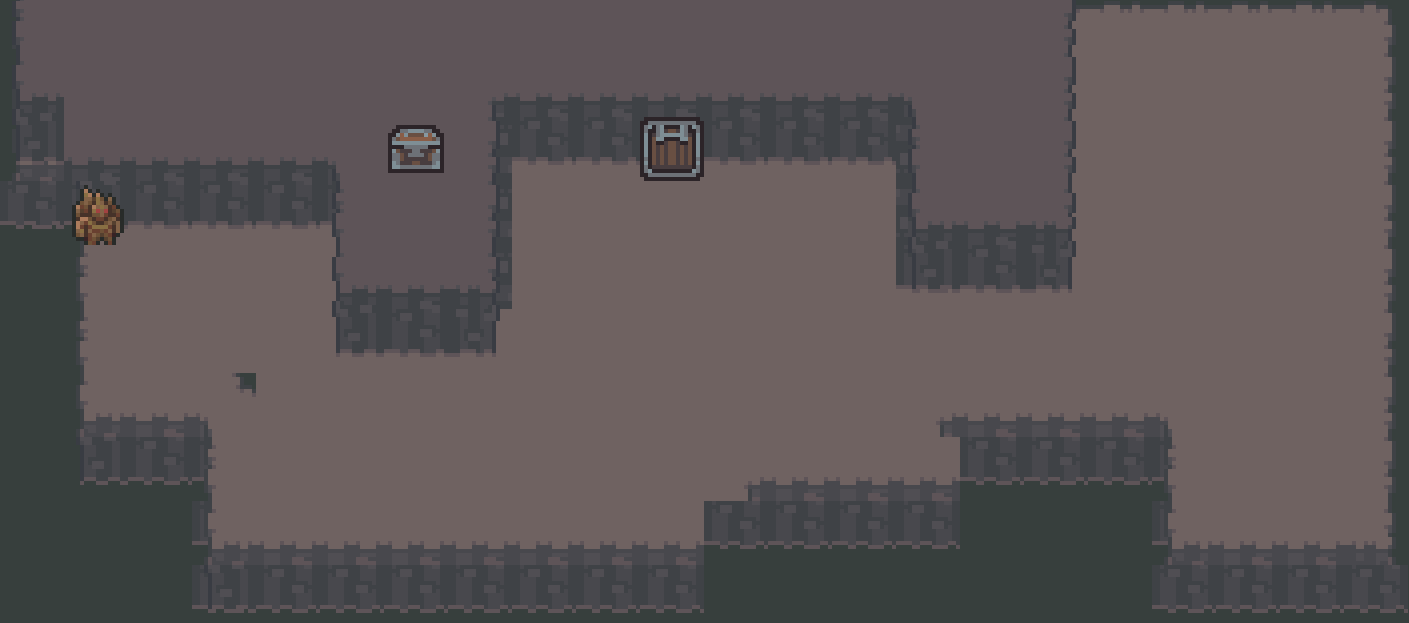
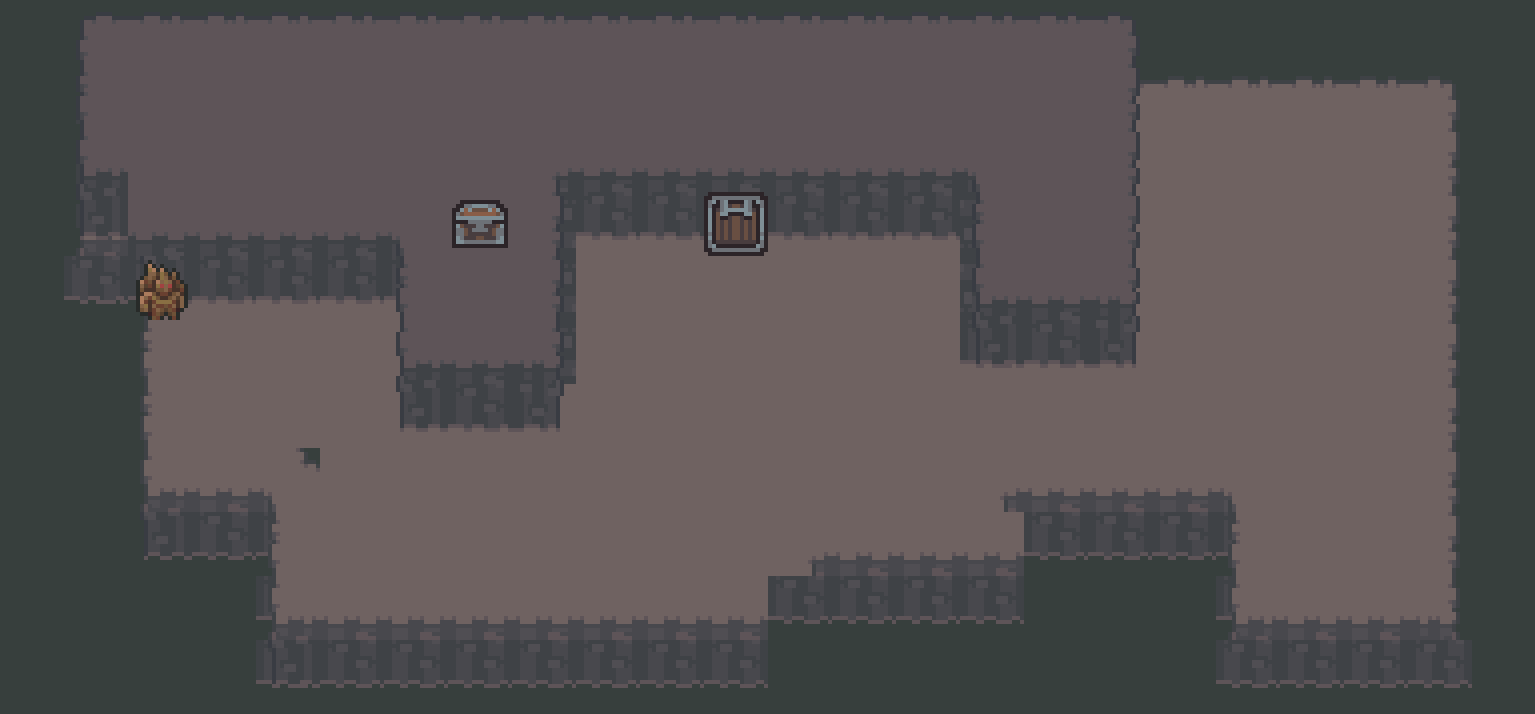
bekup

diff --git a/src/game/collisionData.js b/src/game/collisionData.js
@@ -18,8 +18,8 @@ const worldCollisions  = [
     [0, 0, 0, 0, 0, 1, 0, 0, 0, 0, 0, 0, 0, 0, 0, 0, 0, 0, 0, 0, 0, 1, 0, 0, 0, 0, 0, 0, 0, 1, 1, 1, 1, 1, 1, 1, 1, 1, 1, 1, 1, 1, 1, 1, 1, 1, 1, 1, 0, 0, 0, 0, 0, 0, 0, 0, 0, 0, 0, 0, 0, 0, 0, 0],
     [0, 0, 1, 1, 1, 0, 0, 0, 0, 0, 0, 0, 0, 0, 0, 0, 0, 0, 1, 1, 1, 0, 0, 0, 0, 0, 0, 0, 0, 1, 0, 0, 0, 0, 1, 0, 1, 0, 0, 0, 0, 1, 0, 0, 0, 0, 0, 1, 0, 0, 0, 0, 0, 0, 0, 0, 0, 0, 0, 0, 0, 0, 0, 0],
     [0, 1, 0, 0, 0, 0, 0, 0, 0, 0, 0, 0, 0, 0, 0, 0, 1, 1, 0, 0, 0, 0, 0, 0, 0, 0, 0, 1, 1, 1, 0, 0, 0, 0, 1, 0, 1, 0, 0, 0, 0, 1, 0, 0, 0, 0, 0, 1, 0, 0, 0, 0, 0, 0, 0, 0, 0, 0, 0, 0, 0, 0, 0, 0],
-    [1, 0, 0, 0, 0, 0, 0, 0, 0, 0, 0, 0, 0, 0, 1, 1, 0, 0, 0, 0, 0, 0, 0, 0, 0, 0, 0, 0, 0, 1, 0, 0, 1, 0, 1, 0, 1, 0, 1, 1, 0, 1, 0, 1, 1, 0, 0, 1, 0, 0, 0, 0, 0, 0, 0, 0, 0, 0, 0, 0, 0, 0, 0, 0],
-    [0, 0, 0, 0, 0, 0, 0, 0, 0, 0, 0, 0, 1, 1, 0, 0, 0, 0, 0, 0, 0, 0, 0, 0, 0, 0, 0, 0, 0, 1, 1, 1, 0, 1, 1, 0, 1, 1, 0, 0, 1, 1, 1, 0, 0, 1, 1, 1, 0, 0, 0, 0, 0, 0, 0, 0, 0, 0, 0, 0, 0, 0, 0, 0],
+    [1, 0, 0, 0, 0, 0, 0, 0, 0, 0, 0, 0, 0, 0, 1, 1, 0, 0, 0, 0, 0, 0, 0, 0, 0, 0, 0, 0, 0, 1, 0, 0, 1, 0, 1, 0, 1, 1, 1, 1, 1, 1, 1, 1, 1, 1, 1, 1, 0, 0, 0, 0, 0, 0, 0, 0, 0, 0, 0, 0, 0, 0, 0, 0],
+    [0, 0, 0, 0, 0, 0, 0, 0, 0, 0, 0, 0, 1, 1, 0, 0, 0, 0, 0, 0, 0, 0, 0, 0, 0, 0, 0, 0, 0, 1, 1, 1, 0, 1, 1, 0, 0, 0, 0, 0, 0, 0, 0, 0, 0, 0, 0, 1, 0, 0, 0, 0, 0, 0, 0, 0, 0, 0, 0, 0, 0, 0, 0, 0],
     [0, 0, 0, 0, 0, 0, 0, 0, 0, 0, 1, 1, 0, 0, 0, 0, 0, 0, 0, 0, 0, 0, 0, 0, 0, 0, 0, 0, 0, 1, 0, 0, 0, 0, 0, 0, 0, 0, 0, 0, 0, 0, 0, 0, 0, 0, 0, 1, 0, 0, 0, 0, 0, 0, 0, 0, 0, 0, 0, 0, 0, 0, 0, 0],
     [0, 0, 0, 0, 0, 0, 0, 0, 1, 1, 0, 0, 0, 0, 0, 0, 0, 0, 0, 0, 0, 0, 0, 0, 1, 1, 1, 1, 0, 1, 0, 0, 0, 0, 0, 0, 0, 0, 0, 0, 0, 0, 0, 0, 0, 0, 0, 1, 0, 0, 0, 0, 0, 0, 0, 0, 0, 0, 0, 0, 0, 0, 0, 0],
     [0, 0, 0, 0, 0, 1, 1, 1, 0, 0, 0, 0, 0, 0, 0, 0, 0, 0, 0, 0, 0, 0, 0, 0, 1, 0, 0, 1, 0, 1, 0, 0, 0, 0, 0, 0, 1, 1, 1, 1, 1, 1, 1, 1, 1, 1, 1, 1, 0, 0, 0, 0, 0, 0, 0, 0, 0, 0, 0, 0, 0, 0, 0, 0],
@@ -45,9 +45,9 @@ const homeCollisions = [
   [0,0,0,0,0,0,0,0,0,0,0,0,0,0,0,0,0,0,0,0,0,1],
   [0,0,0,0,0,0,0,0,0,0,0,0,0,0,0,0,0,0,0,0,0,1],
   [0,1,1,1,1,1,0,0,0,0,0,0,0,0,0,0,0,0,0,0,0,1],
-  [1,0,0,1,1,1,1,1,1,1,1,1,1,1,1,1,1,1,1,1,1,1],
+  [1,0,0,1,0,0,1,1,1,1,1,1,1,1,1,1,1,1,1,1,1,1],
   [1,0,0,1,1,0,0,0,0,0,0,1,0,0,0,0,0,0,0,0,1,1],
-  [1,1,1,99,99,0,0,0,0,0,0,1,0,0,0,0,0,0,0,0,1,1],
+  [1,1,1,99,99,1,0,0,0,0,0,1,0,0,0,0,0,0,0,0,1,1],
   [1,0,0,0,0,0,0,0,0,0,0,1,0,0,0,1,1,1,0,0,0,1],
   [1,2,0,0,0,0,0,0,0,0,0,1,0,0,0,0,0,0,0,0,0,1],
   [1,0,1,1,1,1,0,0,0,0,0,0,0,0,0,0,0,0,0,0,0,1],
@@ -98,16 +98,17 @@ const swampCollisions = [
 
 
 const cavesCollisions = [
-  [0,0,0,0,0,0,0,0,0,0,0,0,0,0,0,0,1,0,0,0,0,0,1,0,0,0,0,0,0],
-  [0,0,0,0,0,0,0,1,1,1,1,1,1,1,1,0,1,0,0,0,0,0,1,0,0,0,0,0,0],
-  [1,1,1,1,1,1,0,1,0,0,2,0,0,0,1,0,1,0,0,0,0,0,1,0,0,0,0,0,0],
-  [1,50,0,0,0,1,0,1,0,0,0,0,0,0,1,1,1,0,0,0,0,0,1,0,0,0,0,0,0],
-  [1,0,0,0,0,1,1,1,0,0,0,0,0,0,0,0,0,0,0,0,0,0,1,0,0,0,0,0,0],
-  [1,0,0,0,0,0,0,0,0,0,0,0,0,0,0,0,0,0,0,0,0,0,1,0,0,0,0,0,0],
-  [1,0,0,0,0,0,0,0,0,0,0,0,0,0,0,0,0,0,0,0,0,0,1,0,0,0,0,0,0],
-  [1,1,1,0,0,0,0,0,0,0,0,0,0,0,0,1,1,1,0,0,0,0,1,0,0,0,0,0,0],
-  [0,0,1,0,0,0,0,0,0,0,0,1,1,1,1,1,0,1,0,0,0,0,1,0,0,0,0,0,0],
-  [1,1,1,1,1,1,1,1,1,1,1,1,1,1,1,1,1,1,1,1,1,1,1,1,1,1,1,1,1],
+  [0,0,0,0,0,0,0,0,0,0,0,0,0,0,0,0,0,1,1,1,1,1,1,1,0,0,0,0,0,0],
+  [0,0,0,0,0,0,0,0,0,0,0,0,0,0,0,0,0,1,0,0,0,0,0,1,0,0,0,0,0,0],
+  [0,0,0,0,0,0,0,0,1,1,1,1,1,1,1,1,0,1,0,0,0,0,0,1,0,0,0,0,0,0],
+  [0,1,1,1,1,1,1,0,1,0,0,2,0,0,0,1,0,1,0,0,0,0,0,1,0,0,0,0,0,0],
+  [0,1,50,0,0,0,1,0,1,0,0,0,0,0,0,1,1,1,0,0,0,0,0,1,0,0,0,0,0,0],
+  [0,1,0,0,0,0,1,1,1,0,0,0,0,0,0,0,0,0,0,0,0,0,0,1,0,0,0,0,0,0],
+  [0,1,0,0,0,0,0,0,0,0,0,0,0,0,0,0,0,0,0,0,0,0,0,1,0,0,0,0,0,0],
+  [0,1,0,0,0,0,0,0,0,0,0,0,0,0,0,0,0,0,0,0,0,0,0,1,0,0,0,0,0,0],
+  [0,1,1,1,0,0,0,0,0,0,0,0,0,0,0,0,1,1,1,0,0,0,0,1,0,0,0,0,0,0],
+  [0,0,0,1,0,0,0,0,0,0,0,0,1,1,1,1,1,0,1,0,0,0,0,1,0,0,0,0,0,0],
+  [0,1,1,1,1,1,1,1,1,1,1,1,1,1,1,1,1,1,1,1,1,1,1,1,1,1,1,1,1,1],
 ];
 
 export const collisionMapsData = {
